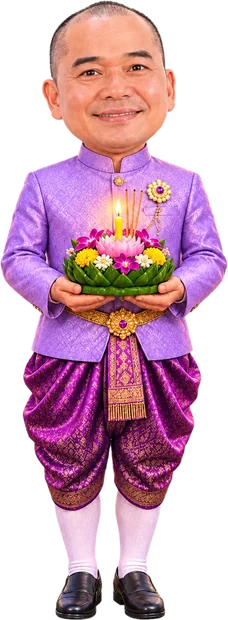
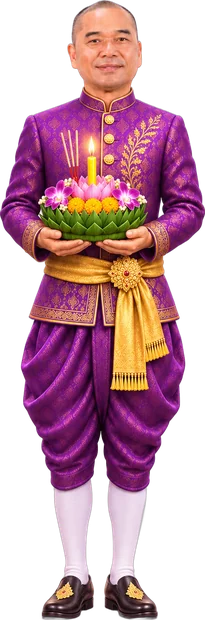
เปลี่ยนตัวละครกลาง (ชุดม่วง) เป็นรูปใหม่ + อัปเดตรูปแชร์ Facebook
Claude-Session: https://claude.ai/code/session_018Htd98VqTD394sZZwvTduT

diff --git a/index.html b/index.html
@@ -7,15 +7,15 @@
 <meta property="og:url" content="https://tanakrid1992-cpu.github.io/loykrathong/">
 <meta property="og:title" content="ลอยกระทงออนไลน์ เทศบาลตำบลคลองตำหรุ 2569">
 <meta property="og:description" content="ร่วมลอยกระทงออนไลน์ เลือกกระทง ใส่ชื่อ รูป และคำอธิษฐาน · ลดขยะ ลดคาร์บอน · Smart City Klongtamru">
-<meta property="og:image" content="https://tanakrid1992-cpu.github.io/loykrathong/og.jpg?v=2">
-<meta property="og:image:secure_url" content="https://tanakrid1992-cpu.github.io/loykrathong/og.jpg?v=2">
+<meta property="og:image" content="https://tanakrid1992-cpu.github.io/loykrathong/og.jpg?v=3">
+<meta property="og:image:secure_url" content="https://tanakrid1992-cpu.github.io/loykrathong/og.jpg?v=3">
 <meta property="og:image:type" content="image/jpeg">
 <meta property="og:image:width" content="1200">
 <meta property="og:image:height" content="630">
 <meta property="og:image:alt" content="ลอยกระทงออนไลน์ เทศบาลตำบลคลองตำหรุ">
 <meta property="og:locale" content="th_TH">
 <meta name="twitter:card" content="summary_large_image">
-<meta name="twitter:image" content="https://tanakrid1992-cpu.github.io/loykrathong/og.jpg?v=2">
+<meta name="twitter:image" content="https://tanakrid1992-cpu.github.io/loykrathong/og.jpg?v=3">
 <meta name="description" content="ลอยกระทงออนไลน์ เทศบาลตำบลคลองตำหรุ 2569">
 <title>ลอยกระทงออนไลน์ เทศบาลตำบลคลองตำหรุ 2569</title>
 <link href="https://fonts.googleapis.com/css2?family=Mitr:wght@300;400;600&family=Charm:wght@700&display=swap" rel="stylesheet">
@@ -257,7 +257,7 @@ textarea{resize:none;height:66px}
 <div id="scene">
   <div id="bg"></div>
   <div class="chr" id="lady"><img src="lady.webp" alt="ร่วมลอยกระทง" onclick="openMake()"></div>
-  <div class="chr" id="man2"><img src="man2.webp" alt="ร่วมลอยกระทง" onclick="openMake()"></div>
+  <div class="chr" id="man2"><img src="man2.webp?v=2" alt="ร่วมลอยกระทง" onclick="openMake()"></div>
   <div class="chr" id="man"><img src="man.webp" alt="ร่วมลอยกระทง" onclick="openMake()"></div>
   <div id="piles"></div>
   <div id="sky"></div>
@@ -472,7 +472,7 @@ const isMine=k=>mine.some(m=>m.id===k.id);
 /* ===== ฉากหลังอัตโนมัติ: PC / Tablet / Smartphone ===== */
 const BGS=[{src:"bg-phone.webp",moon:180,stage:{berm:[150,882,900,859],h:215},ov:"piles-phone.webp",w:941,h:1672,water:.55,piles:[[270,804,225,315,847],[325,807,297,355,839],[67,797,-10,185,875]]},{src:"bg-tablet.webp",moon:192,stage:{berm:[350,678,1150,654],h:185},ov:"piles-tablet.webp",w:1448,h:1086,water:.66,piles:[[405,580,325,485,640],[505,586,460,555,627],[95,567,-20,250,683]]},{src:"bg.webp",moon:39,stage:{berm:[500,542,1200,519],h:165},ov:"piles.webp",w:1672,h:941,water:.62,piles:[[465,427,380,560,495],[580,434,530,640,480],[110,412,-30,300,545]]}];
 // slot: -1 = ซ้าย, 0 = กลาง, 1 = ขวา · stage.berm ใน BGS = เส้นขอบคันนาเกลือ [x1,y1,x2,y2], stage.h = ความสูงตัวละคร (พิกเซลของภาพฉาก) · delay = เวลาไสลด์ขึ้น (ms)
-const CHARS=[{id:"lady",slot:-1,AR:241/620,delay:1000},{id:"man",slot:1,AR:219/620,delay:2600},{id:"man2",slot:0,AR:228/620,delay:4200}];
+const CHARS=[{id:"lady",slot:-1,AR:241/620,delay:1000},{id:"man",slot:1,AR:219/620,delay:2600},{id:"man2",slot:0,S:1.08,AR:205/620,delay:4200}];
 let curBg="";
 function fitBg(){const W=innerWidth,H=innerHeight,ar=W/H,b=ar<.8?BGS[0]:ar<1.55?BGS[1]:BGS[2];
  if(b.src!==curBg){curBg=b.src;$("bg").style.backgroundImage=`url(${b.src})`;$("piles").style.backgroundImage=`url(${b.ov})`}
@@ -483,7 +483,7 @@ function fitBg(){const W=innerWidth,H=innerHeight,ar=W/H,b=ar<.8?BGS[0]:ar<1.55?
  CHARS.forEach(c=>placeChar(c,b,k,ox,oy,W));
  document.documentElement.style.setProperty("--hz",Math.min(80,Math.max(35,wy/H*100+1))+"%")}
 // ยืนเรียงกึ่งกลางจอบนคันนาริมน้ำ: ผู้หญิง (ซ้าย) · ชุดม่วง (กลาง) · ชุดเขียว (ขวา)
-function placeChar(c,b,k,ox,oy,W){const L=b.stage.h*k,w=L*c.AR,gap=L*.42,cx=W/2+c.slot*gap,[x1,y1,x2,y2]=b.stage.berm,
+function placeChar(c,b,k,ox,oy,W){const L=b.stage.h*k*(c.S||1),w=L*c.AR,gap=L*.42,cx=W/2+c.slot*gap,[x1,y1,x2,y2]=b.stage.berm,
  ix=(cx-ox)/k,foot=(y1+(y2-y1)*(ix-x1)/(x2-x1))*k+oy,el=$(c.id);   // เท้าวางบนแนวคันนาเกลือ ณ ตำแหน่งจริงของแต่ละคน
  Object.assign(el.style,{left:(cx-w/2)+"px",top:(foot-L)+"px",width:w+"px",height:L+"px",zIndex:c.slot?2:3})}
 fitBg();addEventListener("resize",fitBg);CHARS.forEach(c=>setTimeout(()=>{$(c.id).classList.add("up");setTimeout(()=>{const r=$(c.id).getBoundingClientRect();for(let i=0;i<26;i++){const a=Math.random()*6.28,v=1+Math.random()*2.5;P.push({x:r.left+r.width/2,y:r.bottom-6,vx:Math.cos(a)*v,vy:-Math.abs(Math.sin(a)*v),l:40+Math.random()*20,c:i%2?"#ffe08a":"#3ee6ff"})}},2100)},c.delay));
